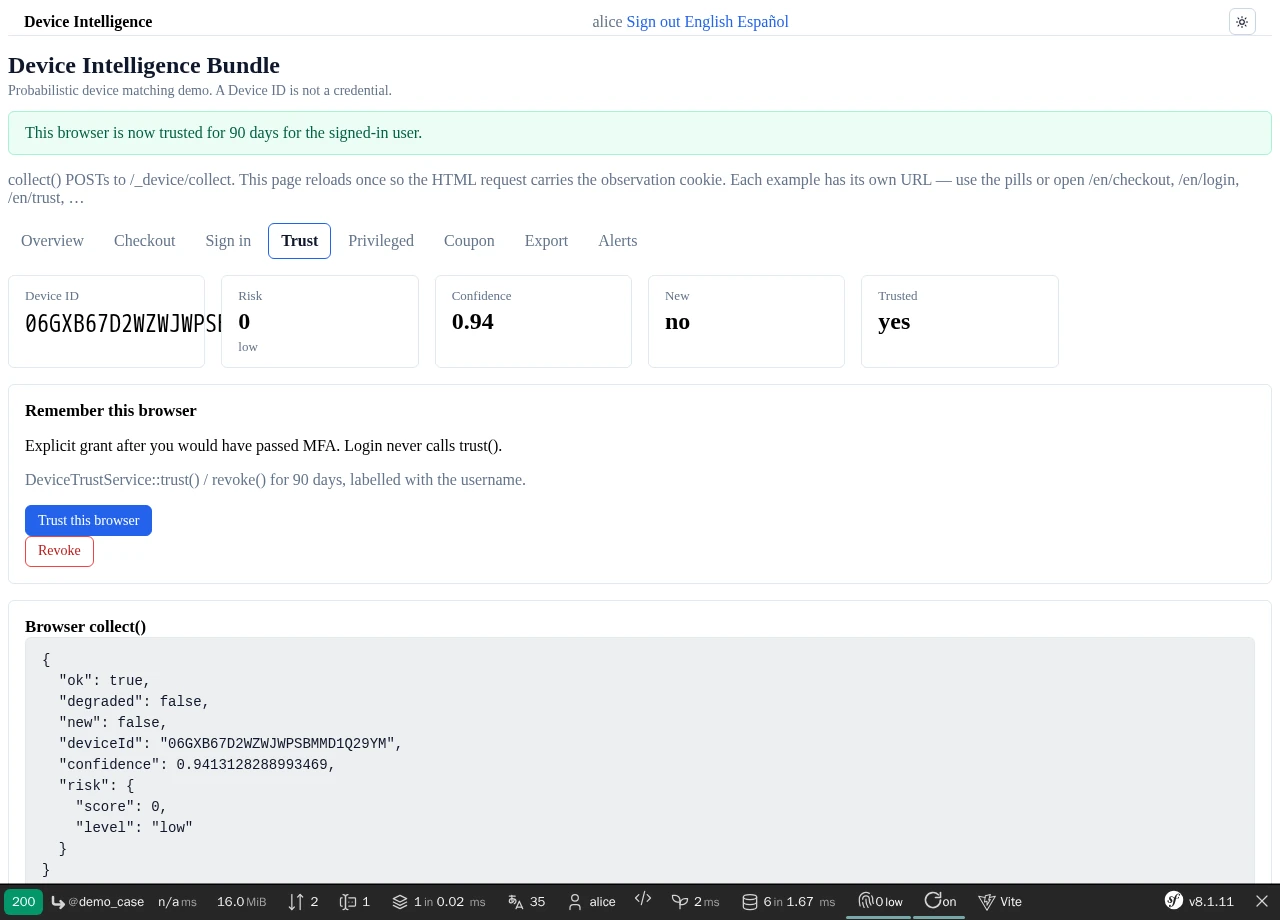
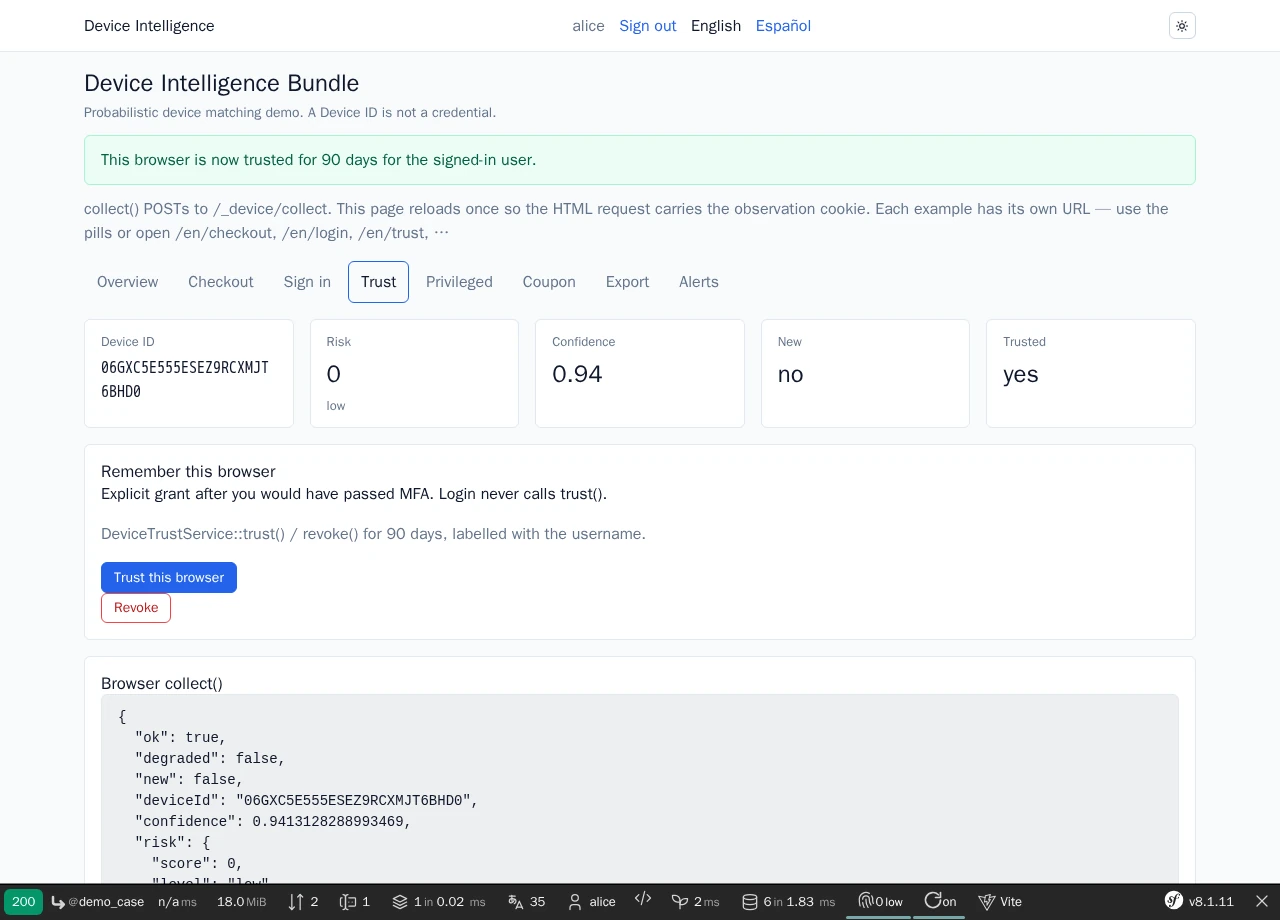
chore(docs): demo opts into UiKit base theme, masthead nav fixed, screenshots regenerated

diff --git a/docs/CHANGELOG.md b/docs/CHANGELOG.md
@@ -94,6 +94,7 @@ and this project adheres to [Semantic Versioning](https://semver.org/spec/v2.0.0
 ### Changed
 
 - docs: demo screenshots regenerated on the UiKit base style
+- demo: opt into UiKit 2.51 `nowo_ui_kit.base_stylesheet`, use `nowo-ui-header__nav` for the masthead nav, screenshots regenerated with the themed shell
 
 ## [1.9.1] - 2026-11-13
 
